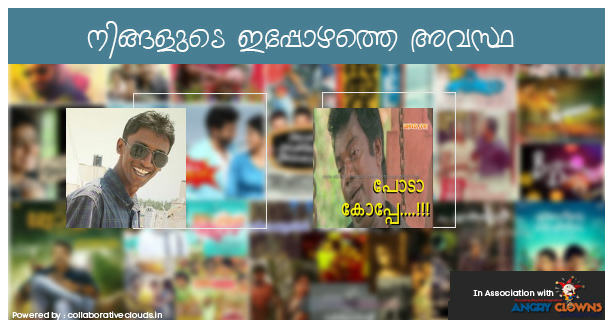
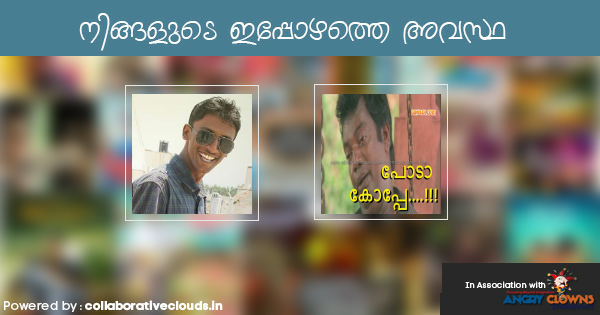
FB

diff --git a/routes/index.js b/routes/index.js
@@ -210,17 +210,17 @@ module.exports = function(passport){
 								// 		height: 768
 								// 		},
 								shotSize: {
-									width: 605
-									, height: 320
+									width: 600
+									, height: 315
 								},
 								siteType: 'html'
 							};
 							//var htmlForm = '<div style="background: chartreuse;width: 1000px; height: 500px;" class="container-fluid"> <div class="row"> <div class="col-md-6"><img width="200px" height="200px"  alt="Bootstrap Image Preview" src="' + user.image + '"/></div><div class="col-md-6"><img width="200px" height="200px" alt="character" src="http:localhost:8000/images/' + imageData.image + '"/></div></div></div>'
 							var head = '<head><link href="/assets/css/bootstrap.css" rel="stylesheet"/><script type="text/javascript" src="/assets/js/jquery.min.js"></script><script type="text/javascript" src="/assets/js/bootstrap.min.js"></script></head>'
 							console.log(htmlForm)
-							var htmlForm	=	'<table style="height: 320px; width: 605px; border-color: #ffffff; background: url('+config.runningHost+'/images/app_bg.jpg);"><tbody><tr><td><table style="height: 174px; border-color: #ffffff; margin-left: auto; margin-right: auto;" width="496"><tbody><tr><td><img src="'+user.image+'" alt="" width="120" height="120"/></td><td><img src="'+config.runningHost+'/images/' + imageData.image + '" alt="" width="120" height="120"/></td></tr></tbody></table></td></tr></tbody></table>'
+							var htmlForm	=	'<table style="height: 315px; width: 600px; border-color: #ffffff; background: url('+config.runningHost+'/images/app_bg.jpg);"><tbody><tr><td><table style="height: 174px; border-color: #ffffff; margin-left: auto; margin-right: auto;" width="496"><tbody><tr><td style="padding-left: 78px; padding-bottom: 7px;"><img src="'+user.image+'" alt="" width="120" height="120"/></td><td style="padding-right: 48px; padding-bottom: 7px;"><img src="'+config.runningHost+'/images/' + imageData.image + '" alt="" width="120" height="120"/></td></tr></tbody></table></td></tr></tbody></table>'
 							var url	=	config.runningHost + '/choosed/reaction/' + user.userid + '/' + choiceInfo.pk_choiceid;
-							url		=	"<html><body>"+htmlForm+"</body></html>";
+							url		=	'<html><body style="margin:0 !important;">'+htmlForm+'</body></html>';
 console.log(url);
 							webshot(url, user.userid + '_' + choiceInfo.pk_choiceid + ".png", option, function (err) {
 								// screenshot now saved to hello_world.png

diff --git a/public/javascript/home.js b/public/javascript/home.js
@@ -8,7 +8,8 @@ $('document').ready(function () {
     (function(d, debug){var js, id = 'facebook-jssdk', ref = d.getElementsByTagName('script')[0];
         if(d.getElementById(id)) {return;}
         js = d.createElement('script'); js.id = id;
-        js.async = true;js.src = "//connect.facebook.net/en_US/all" + (debug ? "/debug" : "") + ".js";
+        js.async = true;
+        js.src = "//connect.facebook.net/en_GB/all.js#xfbml=1&version=v2.5&appId=971412206281096";
         ref.parentNode.insertBefore(js, ref);}(document, /*debug*/ false));
 
     function postToFeed(title, desc, url, image){
@@ -16,6 +17,21 @@ $('document').ready(function () {
         function callback(response){}
         FB.ui(obj, callback);
     }
+    function scrapeLink(url){
+        var masterdfd = $.Deferred();
+        FB.api('https://graph.facebook.com/', 'post', {
+            id: [url],
+            scrape: true
+        }, function(response) {
+            if(!response || response.error){
+                masterdfd.reject(response);
+            }else{
+                masterdfd.resolve(response);
+            }
+        });
+        return masterdfd;
+    }
+
 
     var imageUploadTapped   =   false;
 
@@ -113,18 +129,20 @@ $('document').ready(function () {
     console.log(url_to_scrap);
 
     if(url_to_scrap != "" && url_to_scrap != undefined){
-        $.post(
-            'https://graph.facebook.com/989506491086988',
-            {
-                id: url_to_scrap,
-                scrape: true
-            },
-            function(response){
-                console.log("SCRAP")
-                console.log(response);
-            }
-        );
+        // $.post(
+        //     'https://graph.facebook.com/989506491086988',
+        //     {
+        //         id: url_to_scrap,
+        //         scrape: true
+        //     },
+        //     function(response){
+        //         console.log("SCRAP")
+        //         console.log(response);
+        //     }
+        // );
+        scrapeLink(url_to_scrap)
     }
+
 
     $('.btnShare').click(function(){
         elem = $(this);
